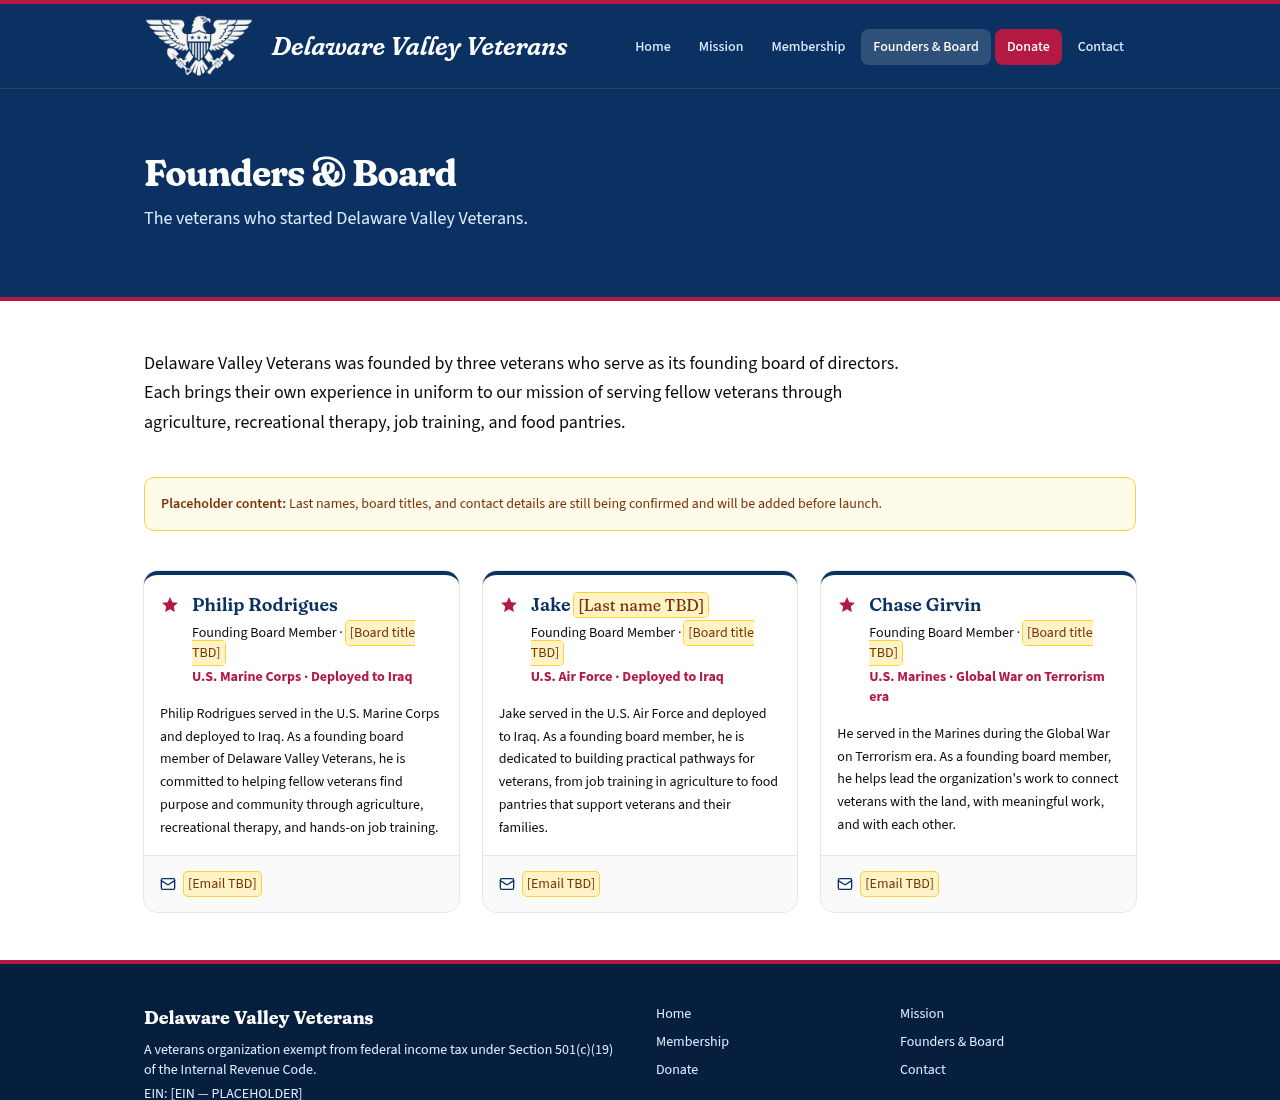
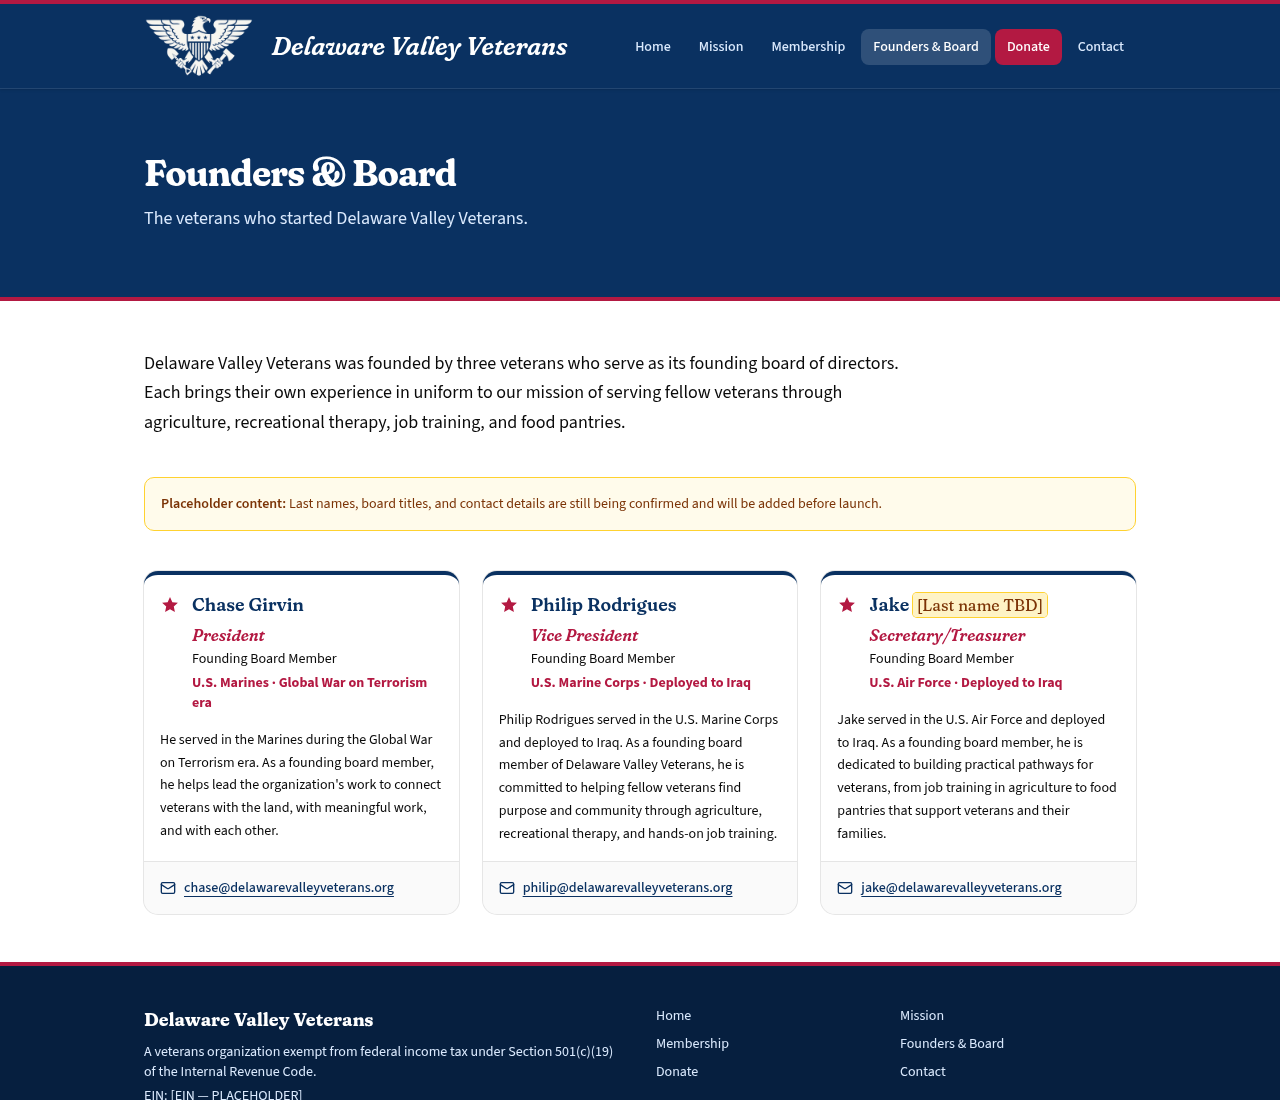
Founders: reorder, add board titles and emails

diff --git a/src/lib/site.ts b/src/lib/site.ts
@@ -29,12 +29,13 @@ export type Founder = {
   firstName: string;
   /** Real last name, or a bracketed placeholder rendered in amber. */
   lastName: { value: string; placeholder: boolean };
-  boardTitle: string; // placeholder until confirmed
+  /** Board office, shown prominently on the card. */
+  title: string;
   /** Short service summary; `branchPlaceholder` is shown in amber if set. */
   service: string;
   branchPlaceholder?: string;
   bio: string;
-  email: string; // placeholder until confirmed
+  email: string;
 };
 
 /**
@@ -44,30 +45,30 @@ export type Founder = {
  */
 export const founders: Founder[] = [
   {
+    id: "chase-girvin",
+    firstName: "Chase",
+    lastName: { value: "Girvin", placeholder: false },
+    title: "President",
+    service: "U.S. Marines · Global War on Terrorism era",
+    bio: "He served in the Marines during the Global War on Terrorism era. As a founding board member, he helps lead the organization's work to connect veterans with the land, with meaningful work, and with each other.",
+    email: "chase@delawarevalleyveterans.org",
+  },
+  {
     id: "philip-rodrigues",
     firstName: "Philip",
     lastName: { value: "Rodrigues", placeholder: false },
-    boardTitle: "[Board title TBD]",
+    title: "Vice President",
     service: "U.S. Marine Corps · Deployed to Iraq",
     bio: "Philip Rodrigues served in the U.S. Marine Corps and deployed to Iraq. As a founding board member of Delaware Valley Veterans, he is committed to helping fellow veterans find purpose and community through agriculture, recreational therapy, and hands-on job training.",
-    email: "[Email TBD]",
+    email: "philip@delawarevalleyveterans.org",
   },
   {
     id: "jake",
     firstName: "Jake",
     lastName: { value: "[Last name TBD]", placeholder: true },
-    boardTitle: "[Board title TBD]",
+    title: "Secretary/Treasurer",
     service: "U.S. Air Force · Deployed to Iraq",
     bio: "Jake served in the U.S. Air Force and deployed to Iraq. As a founding board member, he is dedicated to building practical pathways for veterans, from job training in agriculture to food pantries that support veterans and their families.",
-    email: "[Email TBD]",
-  },
-  {
-    id: "chase-girvin",
-    firstName: "Chase",
-    lastName: { value: "Girvin", placeholder: false },
-    boardTitle: "[Board title TBD]",
-    service: "U.S. Marines · Global War on Terrorism era",
-    bio: "He served in the Marines during the Global War on Terrorism era. As a founding board member, he helps lead the organization's work to connect veterans with the land, with meaningful work, and with each other.",
-    email: "[Email TBD]",
+    email: "jake@delawarevalleyveterans.org",
   },
 ];

diff --git a/src/app/founders/page.tsx b/src/app/founders/page.tsx
@@ -50,10 +50,10 @@ export default function FoundersPage() {
                             f.lastName.value
                           )}
                         </h2>
-                        <p className="mt-1 text-sm">
-                          Founding Board Member ·{" "}
-                          <Placeholder>{f.boardTitle}</Placeholder>
+                        <p className="mt-1 font-heading text-base font-semibold italic text-brand-red">
+                          {f.title}
                         </p>
+                        <p className="mt-0.5 text-sm">Founding Board Member</p>
                         <p className="mt-1 font-label text-sm font-bold text-brand-red">
                           {f.service}
                           {f.branchPlaceholder ? (
@@ -75,7 +75,12 @@ export default function FoundersPage() {
                     <p className="flex items-center gap-2">
                       <Mail className="size-4 text-brand-navy" aria-hidden="true" />
                       <span className="sr-only">Email:</span>
-                      <Placeholder>{f.email}</Placeholder>
+                      <a
+                        href={`mailto:${f.email}`}
+                        className="break-all font-medium text-brand-navy underline underline-offset-4 hover:text-brand-red"
+                      >
+                        {f.email}
+                      </a>
                     </p>
                   </CardFooter>
                 </Card>
